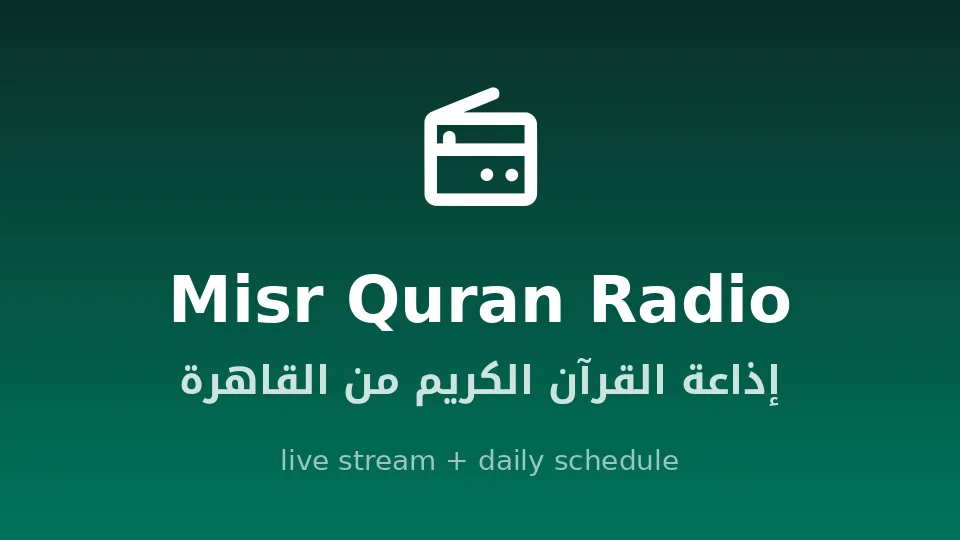
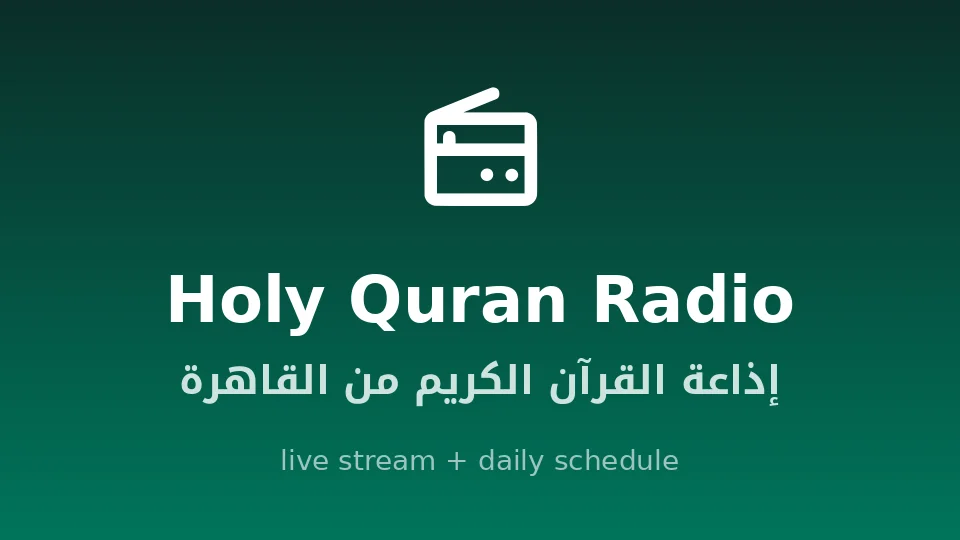
misr-quran-radio: rename display name to Holy Quran Radio

Changed region(s): [[0.375, 0.5037, 0.8438, 0.6222], [0.1562, 0.5037, 0.3438, 0.6222]]

diff --git a/misr-quran-radio/README.md b/misr-quran-radio/README.md
@@ -1,4 +1,4 @@
-# Misr Quran Radio
+# Holy Quran Radio
 
 Live stream of the Egyptian Holy Quran Radio (إذاعة القرآن الكريم من القاهرة,
 on air since 1964) with today's programme schedule from
